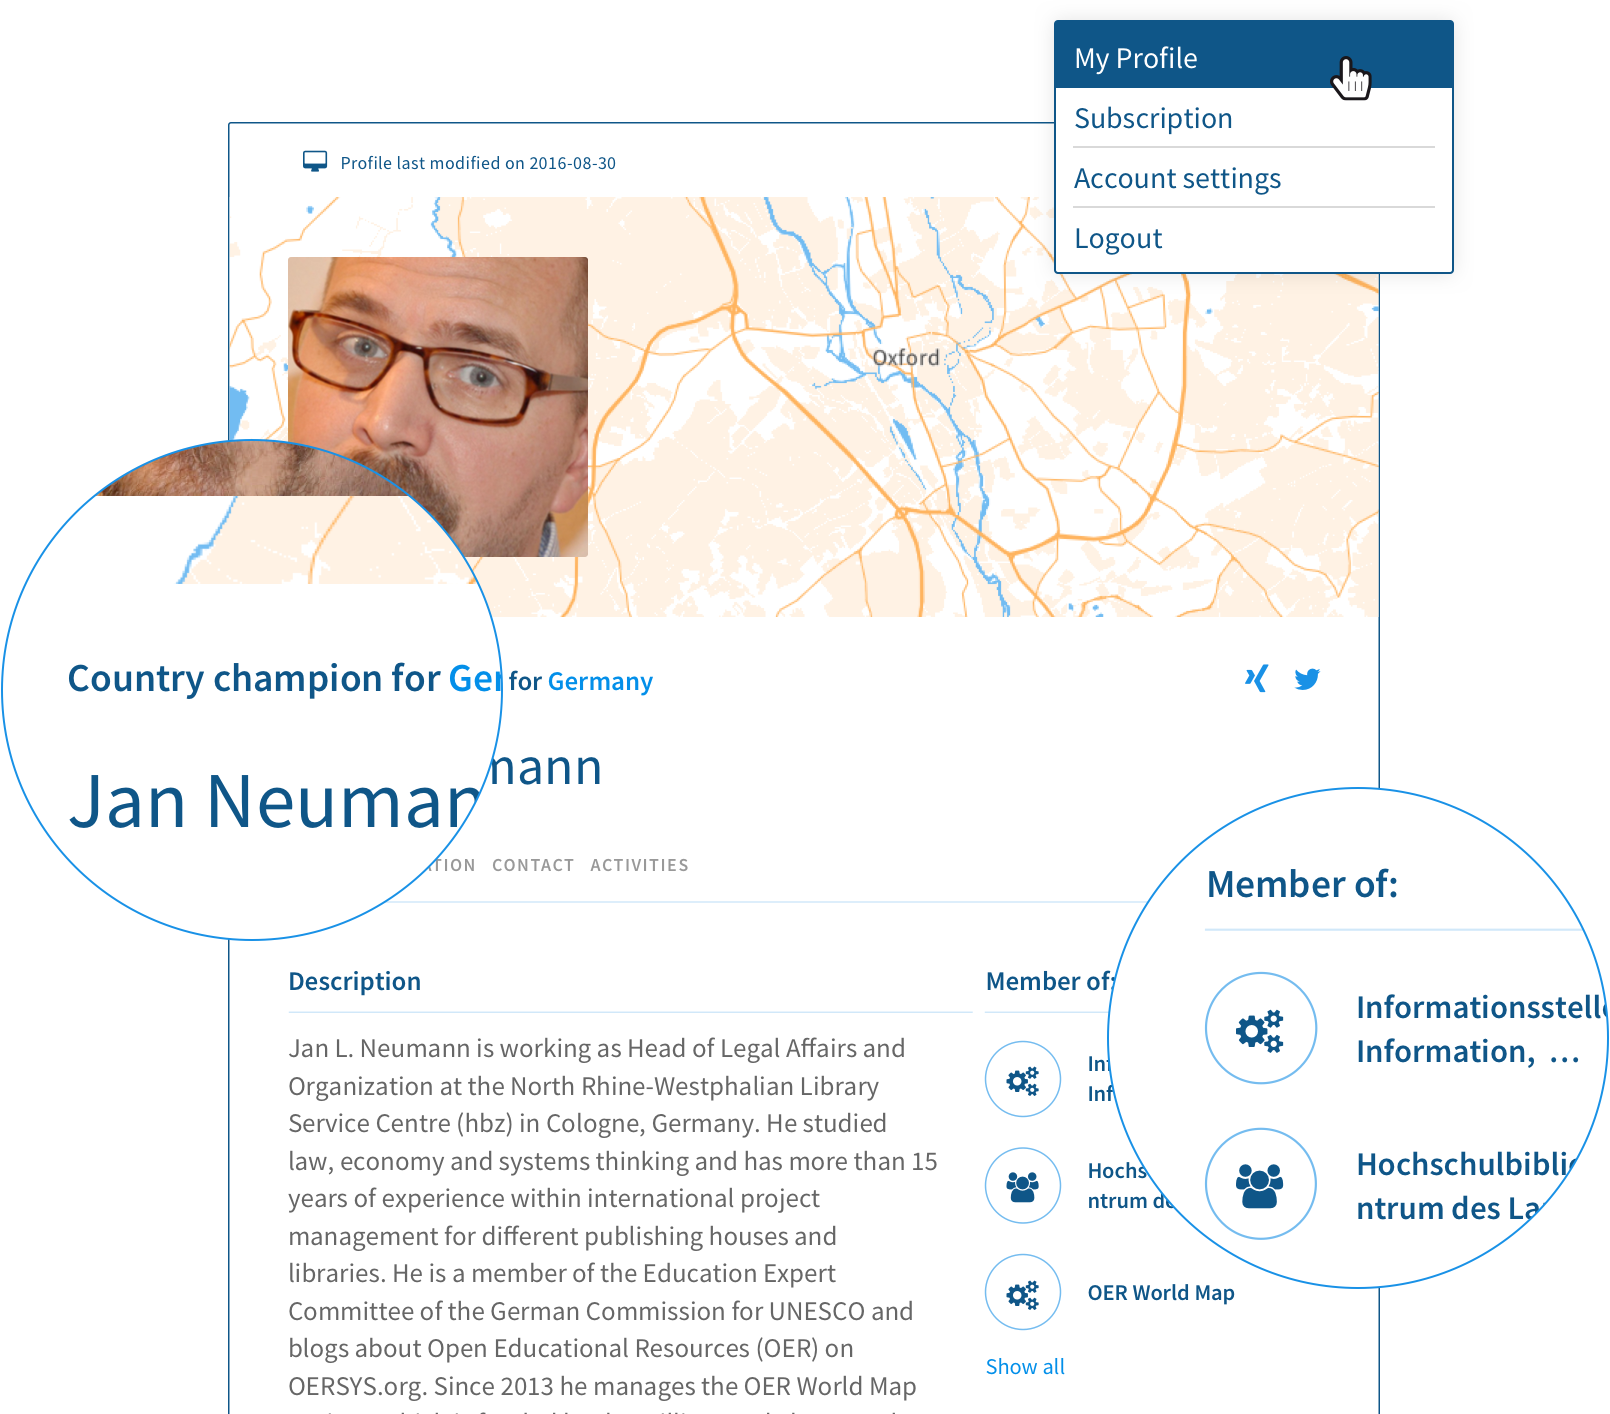
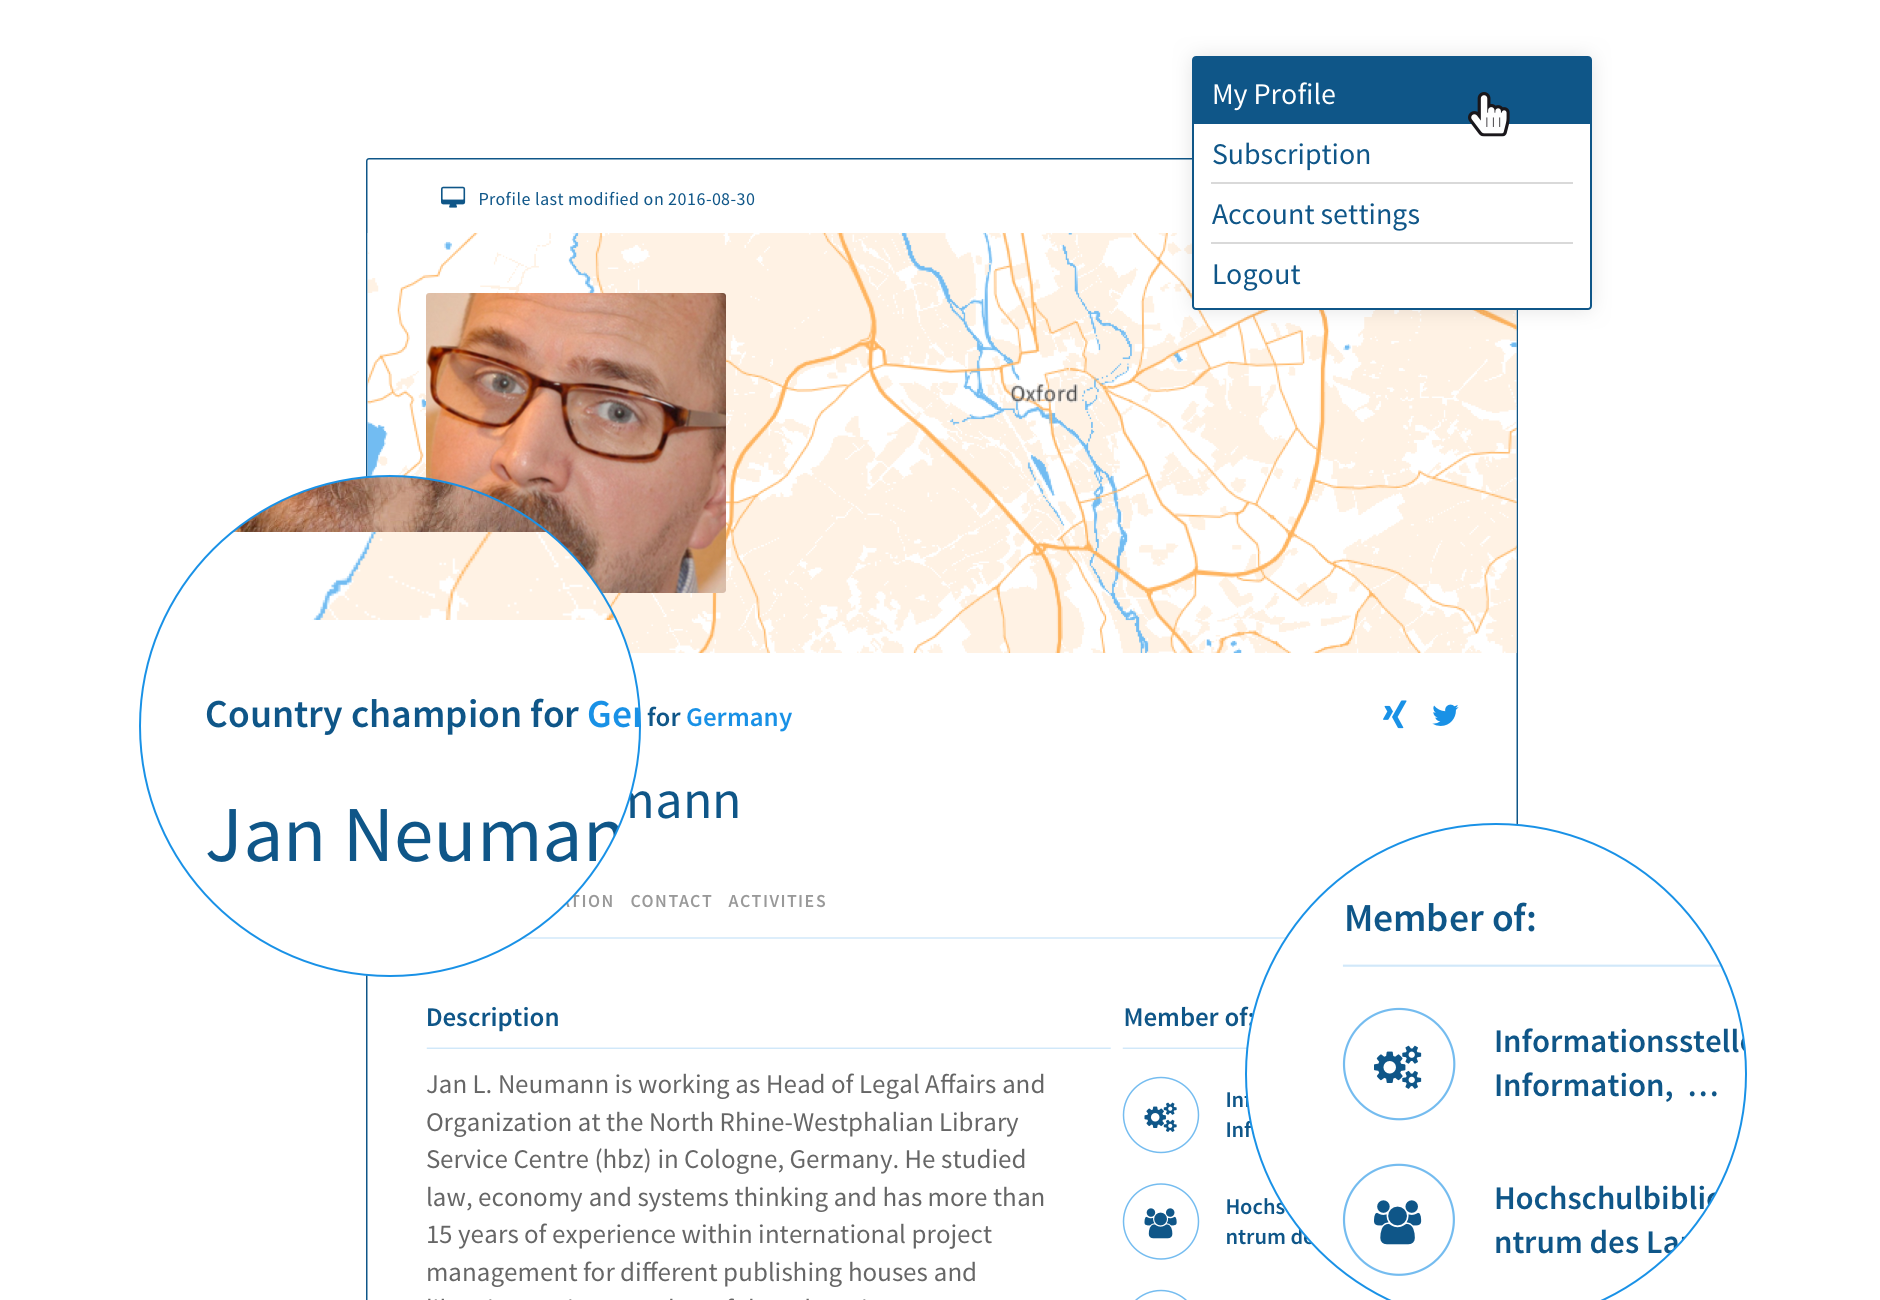
change example slide images

diff --git a/landingpage/examples.html b/landingpage/examples.html
@@ -4,7 +4,7 @@
     <div class="inner">
       <h3>Setup a personal profile</h3>
       <p style="margin-bottom: 3em;">With the registration, you can setup a public personal profile. This allows you to show your role in the global OER movement – e.g. by sharing projects you are participating in, events you attend and any skills or  subjects you’re specialized in. If you're new to open education you can share information about the kind of connections you would like to make.</p>
-      <img class="display-block width-100" style="width: 80%; margin: 0 auto;" src="{{ site.baseurl }}/assets/img/landingpage/examples-setup-profile.png" />
+      <img class="display-block width-100" src="{{ site.baseurl }}/assets/img/landingpage/examples-setup-profile.png" />
     </div>
   </div>
   
@@ -12,7 +12,7 @@
     <div class="inner">
       <h3>Announce an event</h3>
       <p style="margin-bottom: 3em;">You organize a conference, a workshop or another OER related event? Announce it on the OER World Map to inform the community, have it documented and let other people show, that they are going to attend it.</p>
-      <img class="display-block width-100" style="width: 80%; margin: 0 auto;" src="{{ site.baseurl }}/assets/img/landingpage/examples-announce-event.png" />
+      <img class="display-block width-100" src="{{ site.baseurl }}/assets/img/landingpage/examples-announce-event.png" />
     </div>
   </div>
   
@@ -20,7 +20,7 @@
     <div class="inner">
       <h3>Discover the OER movement in your country</h3>
       <p style="margin-bottom: 3em;">Clicking on a country on the map, makes you switch to the country view which, showsing everything going on there OER wise. and also shows you  You can also find country specific reports here.</p>
-      <img class="display-block width-100" style="width: 80%; margin: 0 auto;" src="{{ site.baseurl }}/assets/img/landingpage/examples-discover-country.png" />
+      <img class="display-block width-100" src="{{ site.baseurl }}/assets/img/landingpage/examples-discover-country.png" />
     </div>
   </div>
   
